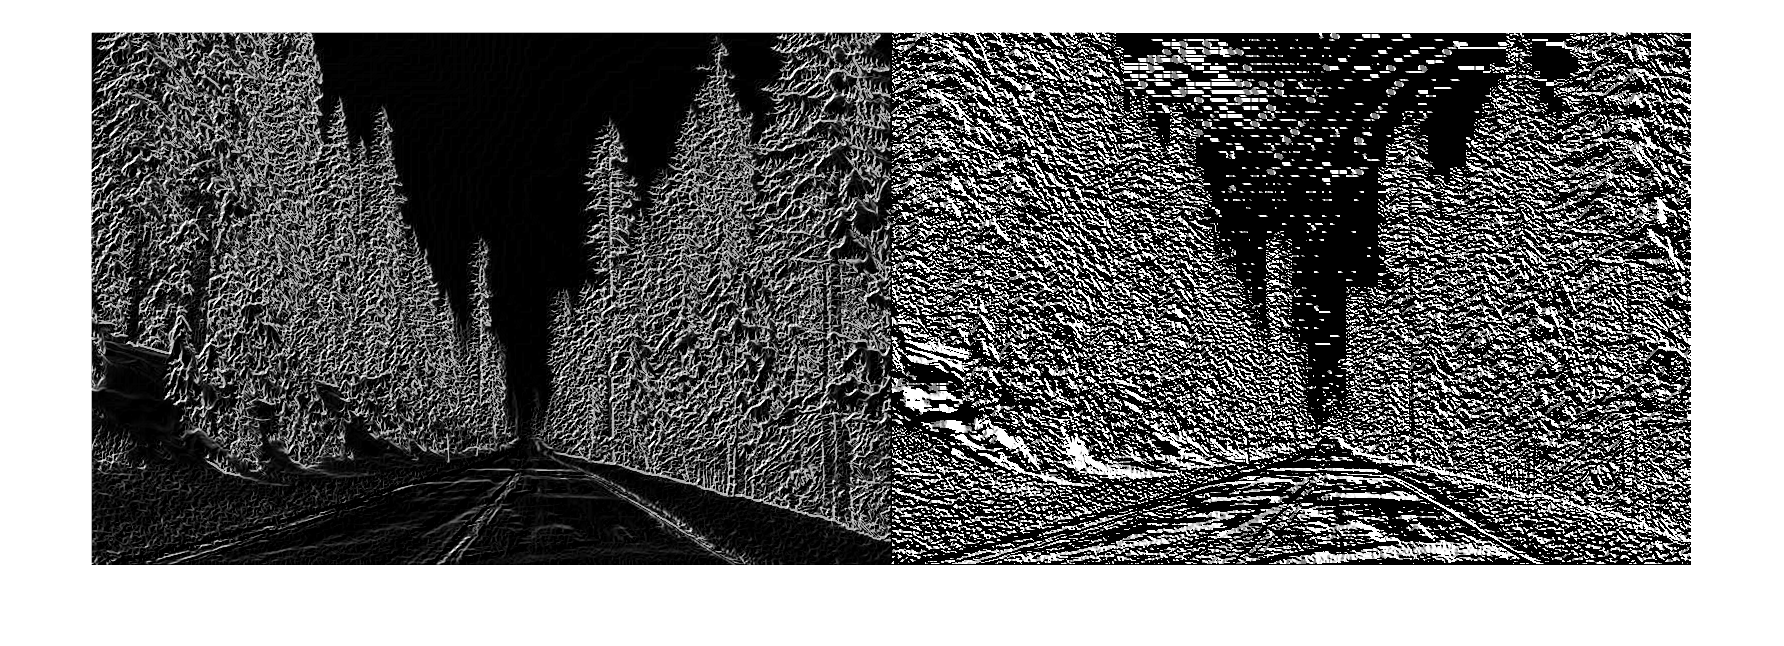
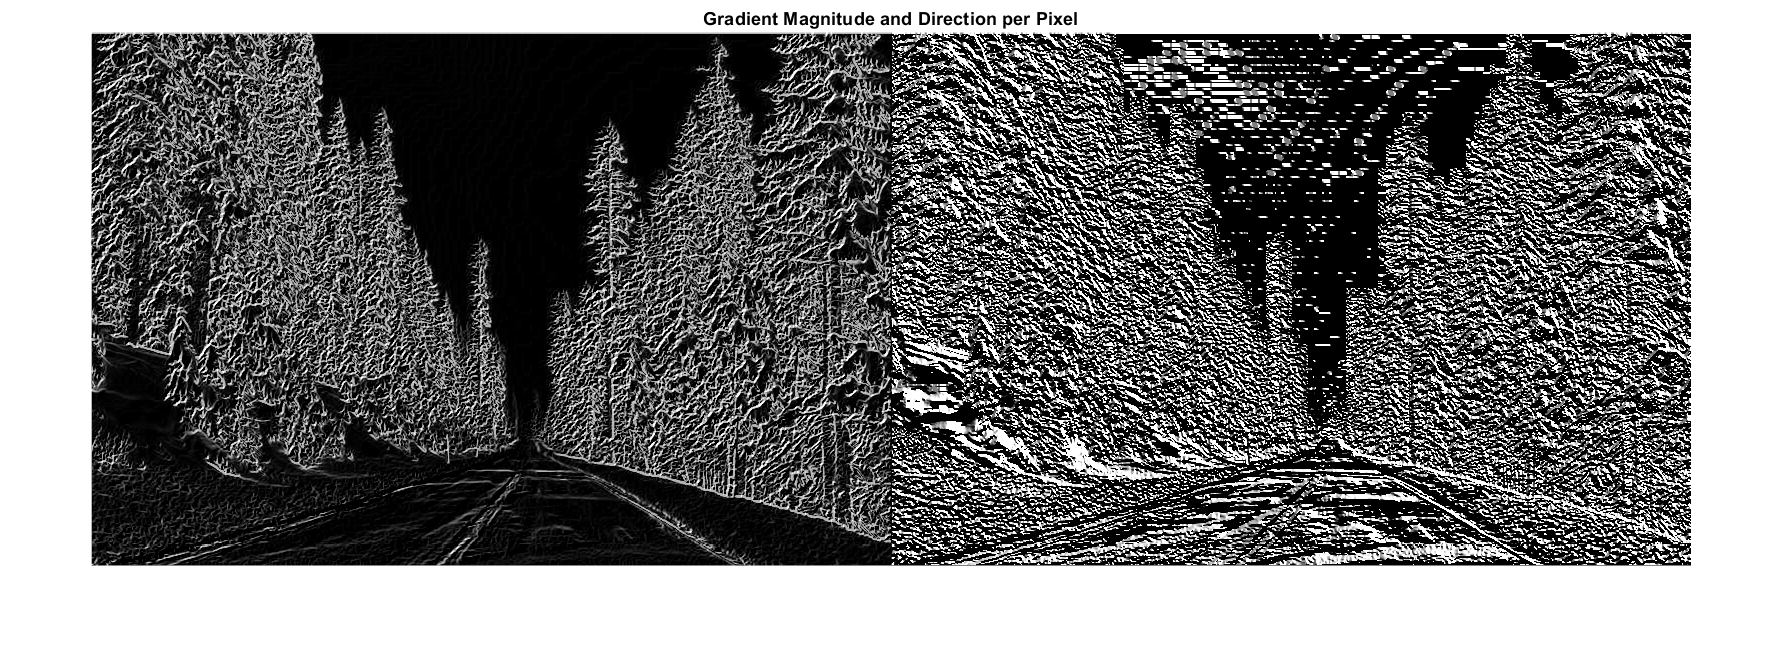
Updared compute_gradient

Changed region(s): [[0.3083, 0.0, 0.9557, 0.8978], [0.0308, 0.031, 0.2775, 0.7121], [0.7399, 0.031, 0.7707, 0.0619]]

diff --git a/lab2/1_image_enhancement/compute_gradient.m b/lab2/1_image_enhancement/compute_gradient.m
@@ -1,13 +1,20 @@
 function [Gx, Gy, im_magnitude,im_direction] = compute_gradient(image)
 
+% Define the Sobel kernels
 sobelX = [1 0 -1; 2 0 -2; 1 0 -1];
 sobelY = sobelX';
 
+% Apply the kernels to the image and get Gx, Gy, magnitude and direction
 Gx = imfilter(image, sobelX, 'conv');
+Gx = rescale(Gx, 0, 255);
 Gy = imfilter(image, sobelY, 'conv');
-im_magnitude = hypot(double(Gx), double(Gy));
-im_direction = atan(double(Gy./Gx));
+Gy = rescale(Gy, 0, 255);
 
+im_magnitude = round(hypot(double(Gx), double(Gy)));
+im_magnitude (isnan(im_magnitude)) = 0;
+im_direction = round(rescale(atan(double(Gy./Gx)), 0, 255));
+im_direction (isnan(im_direction)) = 0;
+%D Display the results
 figure(1);
 imshowpair(Gx, Gy, 'montage');
 title('Directional Gradients Gx and Gy, Using Sobel Method');
